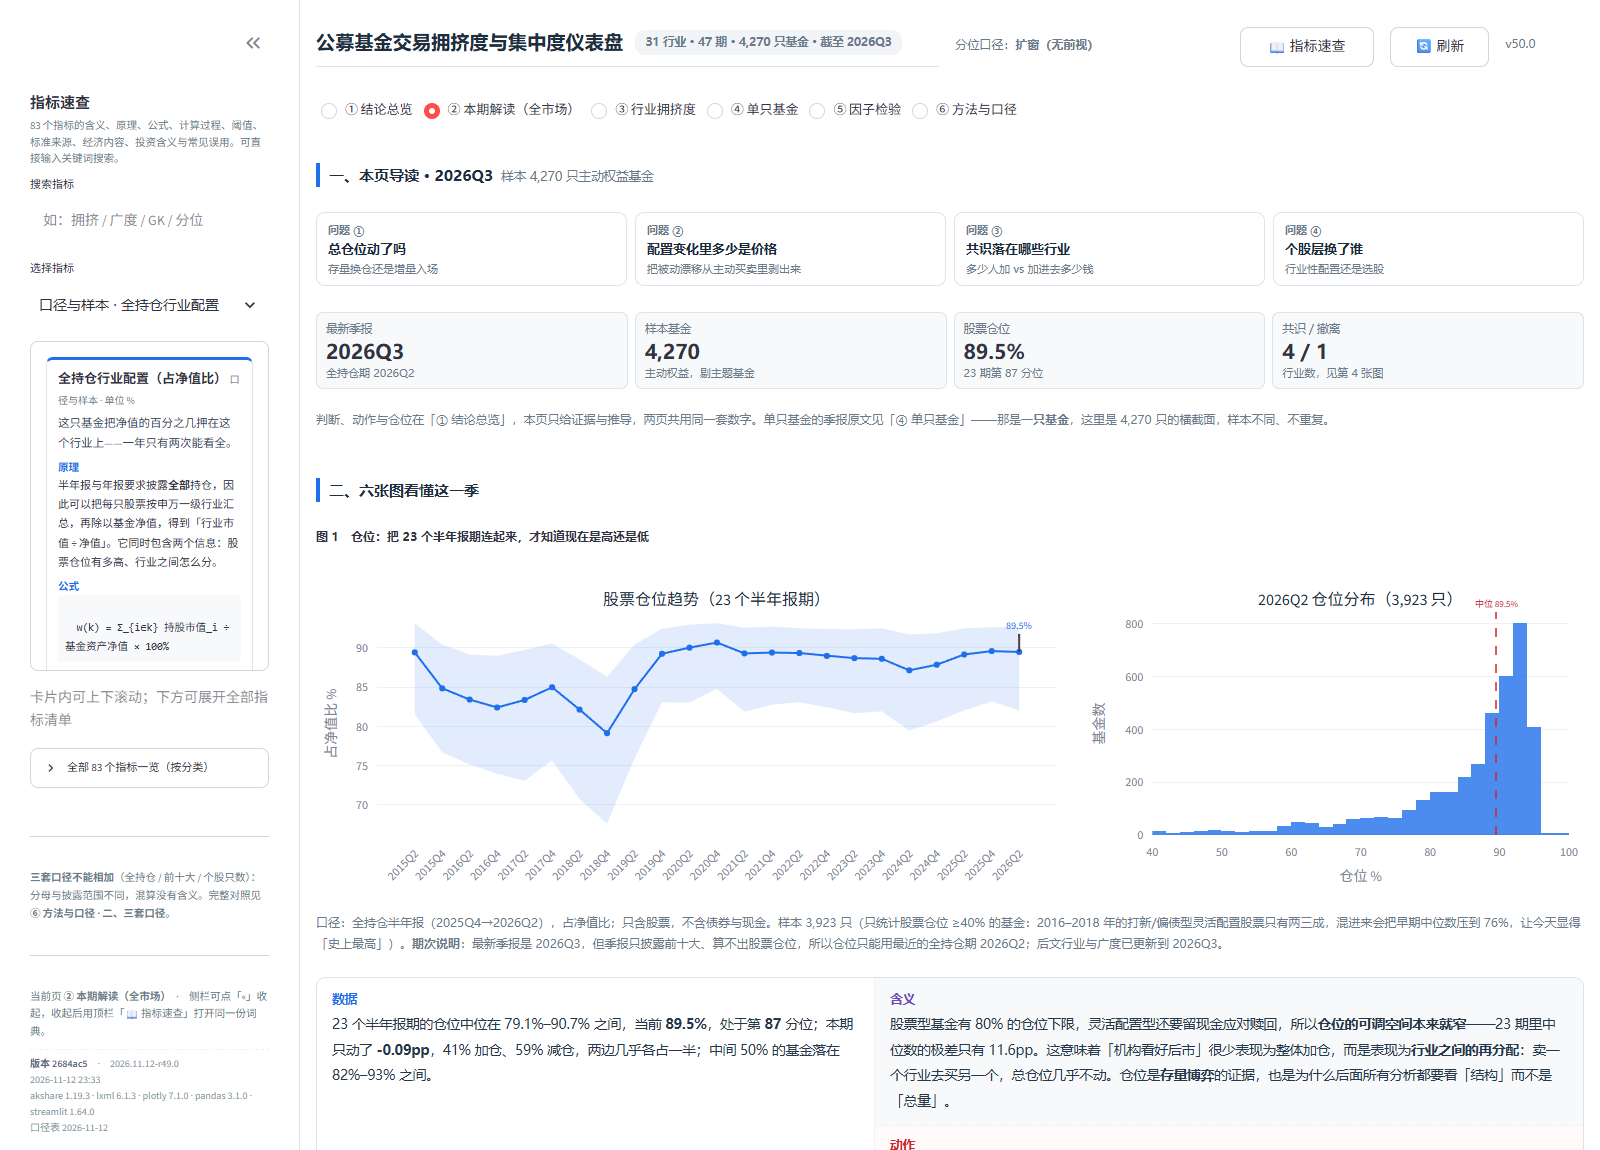
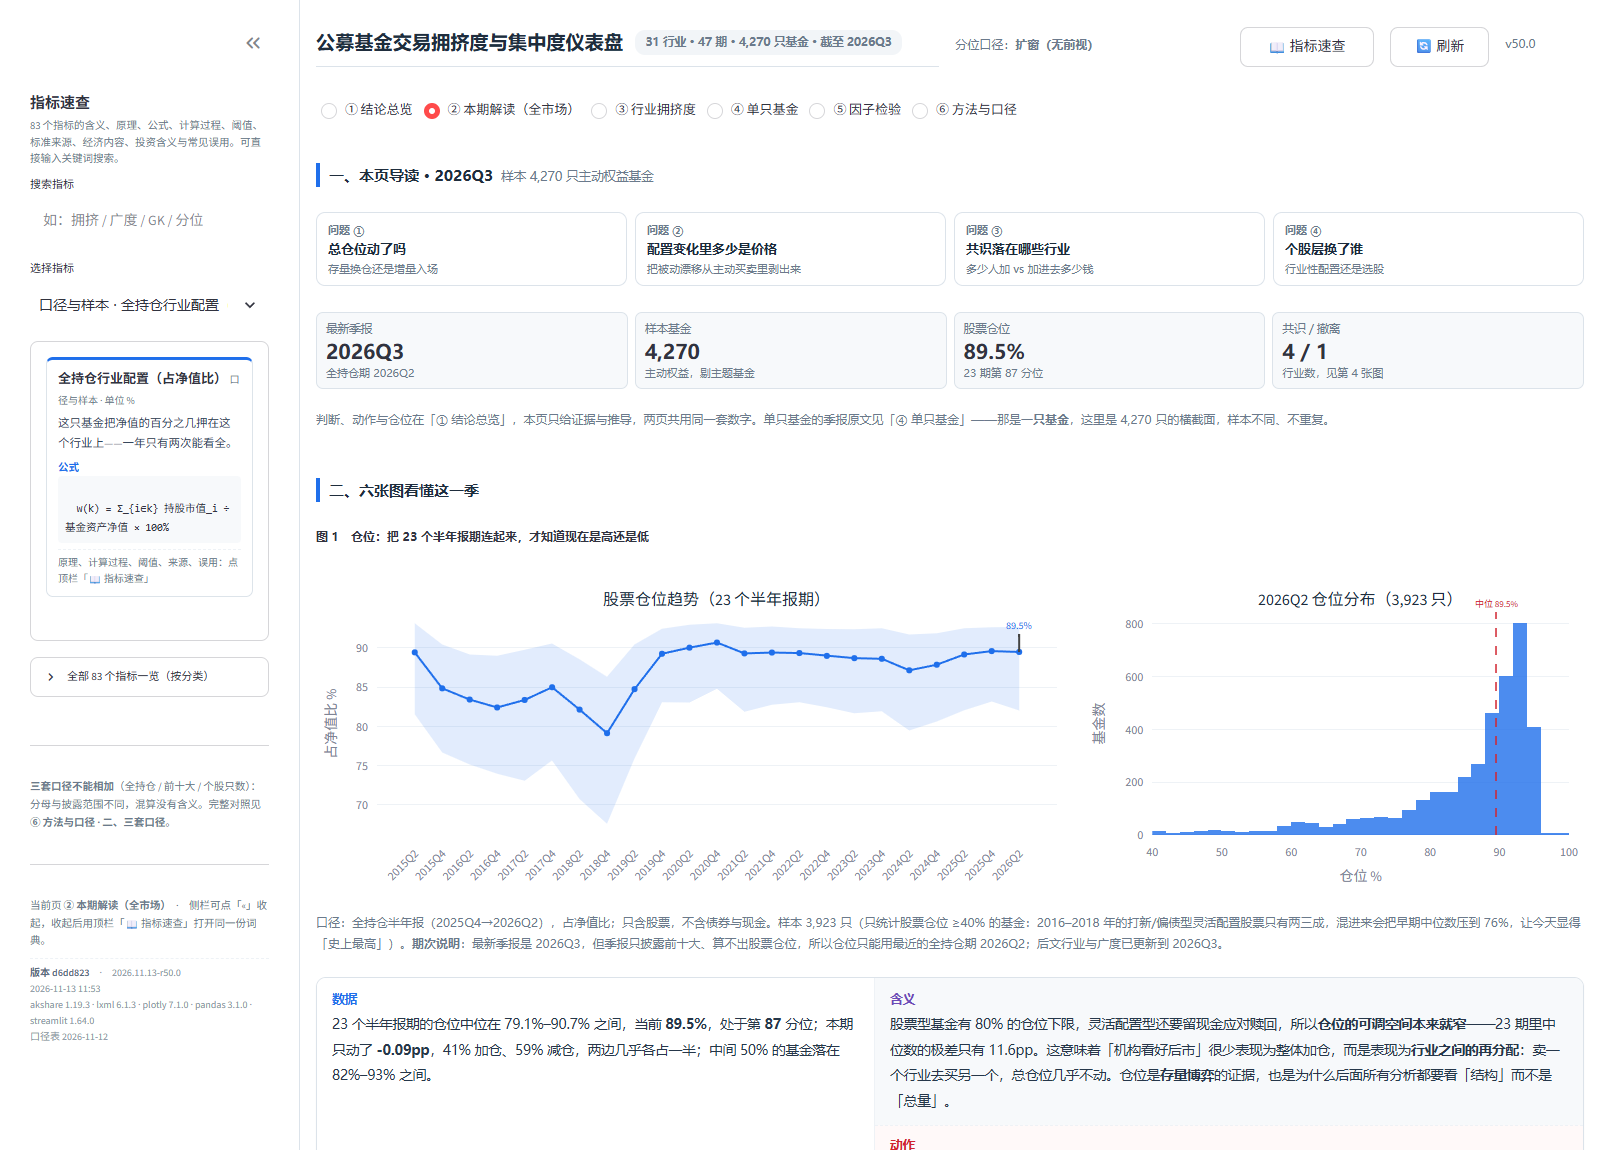
r50.0 收尾：侧栏词典卡改精简版（含义+公式），交付截图改为七张

Changed region(s): [[0.0, 0.3957, 0.1562, 0.7304], [0.0, 0.7609, 0.1562, 1.0]]

diff --git a/src/glossary.py b/src/glossary.py
@@ -1983,8 +1983,13 @@ def label(key: str) -> str:
     return f"{v['cat']} · {v['name']}" if v else key
 
 
-def card_html(key: str, color: dict) -> str:
-    """渲染一张完整的指标说明卡（九段）。颜色取自 config.COLOR。"""
+def card_html(key: str, color: dict, compact: bool = False) -> str:
+    """渲染一张指标说明卡（九段）。
+
+    compact=True 只保留「含义 / 公式」，用于侧边栏的限高容器：
+    九段全塞进 300px 会从公式中间被切断，看起来像排版坏了。
+    完整内容在顶栏「📖 指标速查」弹窗里（同一份数据，不写两套）。
+    """
     v = ITEMS.get(key)
     if not v:
         return ""
@@ -2040,6 +2045,18 @@ border-radius:7px;padding:9px 11px;background:#FFFFFF">
     # 阈值表里有大量「<60%」「<0.5」「<20 只」：浏览器会把「<数字」当成
     # 标签开头，把这一格后面的文字连同整张卡一起吞掉（侧边栏里就出现
     # 「合计 」后面直接接下一列）。只转义不是标签的 <。
+    if compact:
+        # 只保留「含义 + 公式」：侧栏 300px 放不下九段，截在公式后最自然
+        # （读者扫一眼就知道这个数是什么、怎么算；细节去弹窗看）。
+        _head = html[:html.rfind("<div", 0, html.index("原理"))]
+        _f0 = html.rfind("<div", 0, html.index("公式"))
+        _f1 = html.rfind("<div", 0, html.index("计算过程"))
+        html = (_head + html[_f0:_f1]
+                + f'<div style="font-size:10px;line-height:1.6;'
+                  f'color:{color["text_dim"]};border-top:1px dashed {color["grid"]};'
+                  f'padding-top:5px;margin-top:6px">'
+                  f'原理、计算过程、阈值、来源、误用：点顶栏「📖 指标速查」</div>'
+                + "</div>")
     return re.sub(r"<(?![A-Za-z/!])", "&lt;", html)
 
 

diff --git a/src/sidebar_panel.py b/src/sidebar_panel.py
@@ -40,9 +40,10 @@ def _body(page: str = "") -> None:
     # 词典卡平均 500–900px 高，直接铺开会把「三套口径」「版本行」顶到侧栏外面——
     # 读者以为没有版本信息。给卡片一个固定高度、内部滚动，底部信息就永远可见。
     # 侧栏窄、弹窗宽：同一个容器在弹窗里给更高，避免刚打开就要滚。
-    _h = 520 if st.session_state.get("_gl_in_dialog") else 296
+    _h = 520 if st.session_state.get("_gl_in_dialog") else 300
     with st.container(height=_h, border=True):
-        st.markdown(g.card_html(pick, C.COLOR), unsafe_allow_html=True)
+        st.markdown(g.card_html(pick, C.COLOR, compact=not st.session_state.get("_gl_in_dialog")),
+                    unsafe_allow_html=True)
 
 
     # 光靠搜索不够：读者不知道「有哪些词可以查」。

diff --git a/README.md b/README.md
@@ -3520,9 +3520,10 @@ A03/A05/A06/A07 等 5 条变红；恢复后 10/10 通过。
 | ③ 行业拥挤度 | 12,159 | **9,558** | −21% |
 | ④ 单只基金 | 6,266 | 6,401 | +2% |
 | ⑤ 因子检验 | 3,062 | 3,021 | −1% |
-| ⑥ 方法与口径 | 4,762 | **4,332** | −9% |
+| ⑥ 方法与口径 | 4,762 | 4,883 | +3% |
+| **合计** | **37,555** | **33,417** | **−11%** |
 
-①②③⑥ 全部下降；④ 略增 2%，是因为前十进出表改成折叠后单页多了展开控件（可接受）。
+①②③⑤ 下降；④ 与 ⑥ 各增 2–3%，是用高度换可读性（前十表折叠控件、口径由宽表改卡片）。
 
 ### 校验
 
